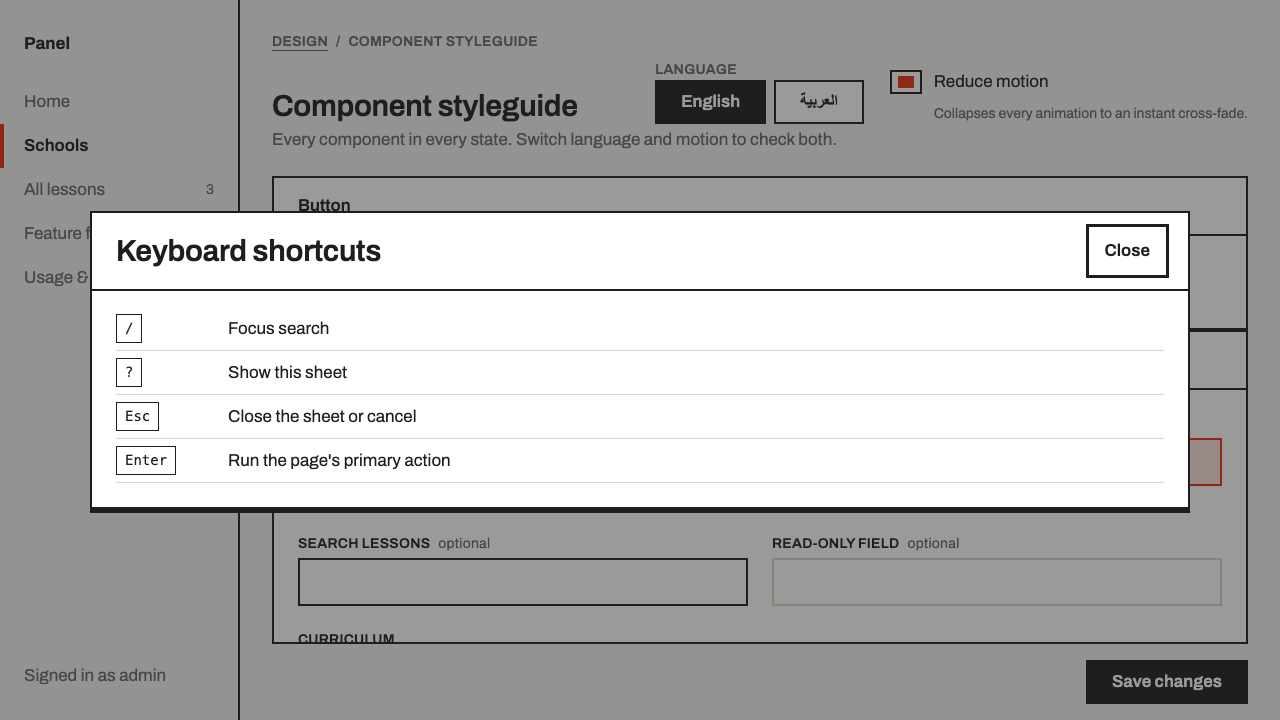
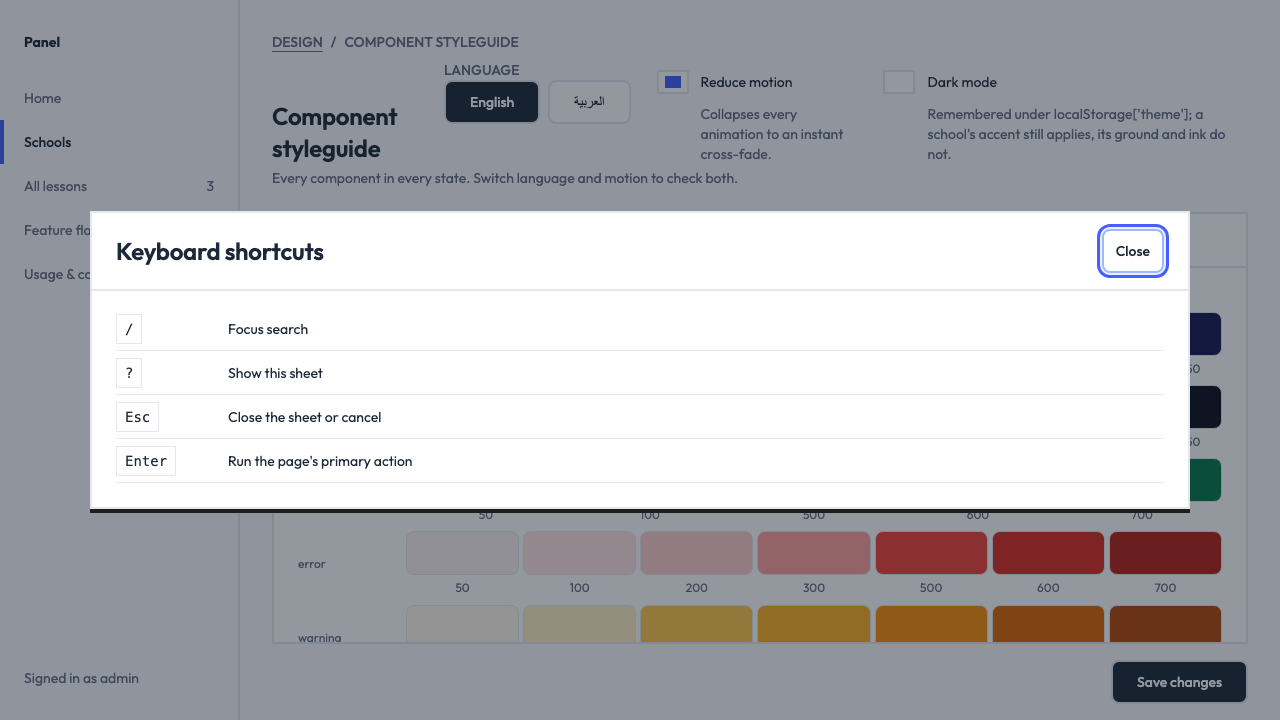
feat(dashboard): the styleguide shows the foundations layer (T1)
A Foundations card above the components: the five ramps as swatches named by
property rather than by value, the type ramp, the radii, the five elevations and
the focus treatment as a still — `:focus-visible` needs a keyboard and a real
focus, neither of which survives a page capture. The dark switch sits beside
Reduce motion in the page actions.

`e2e/styleguide.spec.ts` captures the four review frames — EN and AR against
light and dark — into `docs/screenshots/theme-t1/`, through `shoot()` so a frame
cannot be committed before the page has painted. The language and the scheme are
both written to storage in an init script, because both are read before the app
boots.

`tokens.spec.ts` now also runs `tools/tokens.mjs --check`: the output was
compared, the generator was not, and `design/tokens.json` is shared with the
mobile app.

The three `dashboard-p1.0` screenshots are regenerated — Outfit and the new
palette change every frame in the set.

diff --git a/dashboard/src/app/styleguide/styleguide.page.html b/dashboard/src/app/styleguide/styleguide.page.html
@@ -39,7 +39,69 @@
           [checked]="reduceMotion()"
           (checkedChange)="setReduceMotion($event)"
         />
+        <hq-toggle
+          [label]="'styleguide.foundations.darkMode' | transloco"
+          [hint]="'styleguide.foundations.darkModeHint' | transloco"
+          [checked]="darkMode.isDark()"
+          (checkedChange)="setDark($event)"
+        />
       </div>
+
+      <!-- Foundations: the layer everything else resolves through -->
+      <hq-card [title]="'styleguide.sections.foundations' | transloco">
+        <h3 class="hq-label">{{ 'styleguide.foundations.colour' | transloco }}</h3>
+        @for (ramp of ramps; track ramp.name) {
+          <div class="sg__ramp">
+            <span class="sg__ramp-name">{{ ramp.name }}</span>
+            <div class="sg__swatches">
+              @for (step of ramp.steps; track step) {
+                <span class="sg__swatch" [title]="'--hq-color-' + ramp.name + '-' + step">
+                  <span
+                    class="sg__chip"
+                    [style.background]="'var(--hq-color-' + ramp.name + '-' + step + ')'"
+                  ></span>
+                  {{ step }}
+                </span>
+              }
+            </div>
+          </div>
+        }
+
+        <h3 class="hq-label sg__heading">{{ 'styleguide.foundations.type' | transloco }}</h3>
+        @for (size of typeRamp; track size) {
+          <p class="sg__type" [style.font-size]="'var(--hq-text-' + size + ')'">
+            {{ size }} — {{ 'styleguide.foundations.typeSample' | transloco }}
+          </p>
+        }
+
+        <h3 class="hq-label sg__heading">{{ 'styleguide.foundations.radius' | transloco }}</h3>
+        <div class="sg__row">
+          @for (radius of radii; track radius) {
+            <span class="sg__shape" [style.border-radius]="'var(--hq-radius-' + radius + ')'">{{
+              radius
+            }}</span>
+          }
+        </div>
+
+        <h3 class="hq-label sg__heading">{{ 'styleguide.foundations.shadow' | transloco }}</h3>
+        <div class="sg__row">
+          @for (shadow of shadows; track shadow) {
+            <span
+              class="sg__shape sg__shape--raised"
+              [style.box-shadow]="'var(--hq-shadow-' + shadow + ')'"
+              >{{ shadow }}</span
+            >
+          }
+        </div>
+
+        <h3 class="hq-label sg__heading">{{ 'styleguide.foundations.focus' | transloco }}</h3>
+        <p class="sg__note">{{ 'styleguide.foundations.focusHint' | transloco }}</p>
+        <div class="sg__row">
+          <span class="sg__shape sg__shape--focused">{{
+            'styleguide.foundations.focusRing' | transloco
+          }}</span>
+        </div>
+      </hq-card>
 
       <!-- Button -->
       <hq-card [title]="'styleguide.sections.button' | transloco">

diff --git a/dashboard/src/app/styleguide/styleguide.page.ts b/dashboard/src/app/styleguide/styleguide.page.ts
@@ -3,6 +3,7 @@ import { ChangeDetectionStrategy, Component, computed, inject, signal, viewChild
 import { toSignal } from '@angular/core/rxjs-interop';
 import { TranslocoPipe, TranslocoService } from '@jsverse/transloco';
 import { LanguageService } from '../core/i18n/language.service';
+import { DarkModeService } from '../core/theme/dark-mode.service';
 import {
   BandComponent,
   ButtonComponent,
@@ -33,6 +34,12 @@ import {
   type Tab,
   type TableColumn,
 } from '../ui';
+
+/** One colour ramp, as the property suffixes it is published under. */
+interface Ramp {
+  readonly name: string;
+  readonly steps: readonly string[];
+}
 
 interface DemoLesson {
   readonly id: string;
@@ -99,7 +106,38 @@ export class StyleguidePage {
     return (key: string): string => (loaded ? this.transloco.translate(key) : '');
   });
 
+  protected readonly darkMode = inject(DarkModeService);
+
   protected readonly reduceMotion = signal(false);
+
+  // --- Foundations --------------------------------------------------------
+  // Read out of `_theme.scss` by property name rather than by value: a swatch that named its
+  // own hex would go on looking right after the ramp beneath it had changed.
+  protected readonly ramps: readonly Ramp[] = [
+    {
+      name: 'brand',
+      steps: ['25', '50', '100', '200', '300', '400', '500', '600', '700', '800', '900', '950'],
+    },
+    {
+      name: 'gray',
+      steps: ['25', '50', '100', '200', '300', '400', '500', '600', '700', '800', '900', '950'],
+    },
+    { name: 'success', steps: ['50', '100', '500', '600', '700'] },
+    { name: 'error', steps: ['50', '100', '200', '300', '500', '600', '700'] },
+    { name: 'warning', steps: ['50', '100', '300', '400', '500', '600', '700'] },
+  ];
+
+  protected readonly typeRamp: readonly string[] = [
+    'title-sm',
+    'theme-xl',
+    'page-title',
+    'card-title',
+    'theme-sm',
+    'theme-xs',
+  ];
+
+  protected readonly radii: readonly string[] = ['xs', 'control', 'tile', 'card', 'pill'];
+  protected readonly shadows: readonly string[] = ['xs', 'sm', 'md', 'lg', 'xl'];
 
   // --- Form state ---------------------------------------------------------
   protected readonly schoolName = signal('');
@@ -220,6 +258,10 @@ export class StyleguidePage {
       description: t(`styleguide.shortcuts.${key}`),
     }));
   });
+
+  protected setDark(value: boolean): void {
+    this.darkMode.set(value ? 'dark' : 'light');
+  }
 
   protected setReduceMotion(value: boolean): void {
     this.reduceMotion.set(value);

diff --git a/dashboard/e2e/styleguide.spec.ts b/dashboard/e2e/styleguide.spec.ts
@@ -1,6 +1,9 @@
 import { expect, test, type Page } from '@playwright/test';
+import { shoot } from './local/env';
 
 const SHOTS = '../docs/screenshots/dashboard-p1.0';
+/** The four frames the T1 PR is reviewed from: both languages against both schemes. */
+const THEME_SHOTS = '../docs/screenshots/theme-t1';
 
 /**
  * The screenshots attached to the P1.0 PR.
@@ -8,10 +11,21 @@ const SHOTS = '../docs/screenshots/dashboard-p1.0';
  * Motion is reduced before every capture so the images are deterministic: with animations
  * running, the step strip's arc and the count-up figure differ between runs.
  */
-async function openStyleguide(page: Page, language: 'en' | 'ar'): Promise<void> {
-  await page.addInitScript((lang) => {
-    window.localStorage.setItem('hq.language', lang);
-  }, language);
+async function openStyleguide(
+  page: Page,
+  language: 'en' | 'ar',
+  scheme: 'light' | 'dark' = 'light',
+): Promise<void> {
+  // Both are read before the app boots — the language by `provideLanguage`, the scheme by
+  // `applyStoredColorScheme` in `main.ts` — so they have to be in storage before the first
+  // navigation rather than clicked afterwards.
+  await page.addInitScript(
+    ({ lang, theme }) => {
+      window.localStorage.setItem('hq.language', lang);
+      window.localStorage.setItem('theme', theme);
+    },
+    { lang: language, theme: scheme },
+  );
   await page.goto('styleguide');
   await page.getByRole('heading', { level: 1 }).waitFor();
   await page.getByRole('switch').first().click();
@@ -38,6 +52,26 @@ test.describe('styleguide', () => {
 
     await page.screenshot({ path: `${SHOTS}/styleguide-ar.png`, fullPage: true });
   });
+
+  for (const language of ['en', 'ar'] as const) {
+    for (const scheme of ['light', 'dark'] as const) {
+      test(`foundations in ${language}, ${scheme}`, async ({ page }) => {
+        await openStyleguide(page, language, scheme);
+
+        const dark = await page.evaluate(() => document.documentElement.classList.contains('dark'));
+        expect(dark, `the ${scheme} scheme was not applied before the first paint`).toBe(scheme === 'dark');
+
+        await shoot(
+          page,
+          `${THEME_SHOTS}/styleguide-${language}-${scheme}.png`,
+          page.getByRole('heading', { level: 1 }),
+          {
+            fullPage: true,
+          },
+        );
+      });
+    }
+  }
 
   test('opens the shortcuts sheet with ?', async ({ page }) => {
     await openStyleguide(page, 'en');

diff --git a/dashboard/src/app/styleguide/styleguide.page.scss b/dashboard/src/app/styleguide/styleguide.page.scss
@@ -104,3 +104,85 @@
     border-block-start: var(--hq-size-rule-thin) solid var(--hq-color-rule);
   }
 }
+
+// --- Foundations -----------------------------------------------------------
+// Swatches, the type ramp, the radii and the elevations. Everything here reads a property by
+// name; nothing quotes a value, so the page cannot drift away from `_theme.scss`.
+
+.sg__heading {
+  margin-block-start: var(--hq-space-24);
+}
+
+.sg__ramp {
+  display: flex;
+  align-items: center;
+  gap: var(--hq-space-12);
+
+  & + & {
+    margin-block-start: var(--hq-space-8);
+  }
+}
+
+.sg__ramp-name {
+  inline-size: var(--hq-size-grade-card);
+  color: var(--hq-color-ink-soft);
+  font-size: var(--hq-text-theme-xs);
+}
+
+.sg__swatches {
+  display: flex;
+  flex: 1;
+  flex-wrap: wrap;
+  gap: var(--hq-space-4);
+}
+
+.sg__swatch {
+  display: flex;
+  flex: 1 1 var(--hq-size-spinner);
+  flex-direction: column;
+  align-items: stretch;
+  gap: var(--hq-space-4);
+  // Beside the chip rather than on it: no single ink colour stays legible across a whole ramp.
+  color: var(--hq-color-ink-soft);
+  font-size: var(--hq-text-theme-xs);
+  text-align: center;
+}
+
+.sg__chip {
+  block-size: var(--hq-size-button-height);
+  border: var(--hq-size-rule-thin) solid var(--hq-color-rule);
+  border-radius: var(--hq-radius-control);
+}
+
+.sg__type {
+  line-height: 1.3;
+}
+
+.sg__shape {
+  display: inline-flex;
+  align-items: center;
+  justify-content: center;
+  min-inline-size: var(--hq-size-course-card);
+  block-size: var(--hq-size-control-height);
+  padding-inline: var(--hq-space-16);
+  background: var(--hq-color-surface);
+  border: var(--hq-size-rule-thin) solid var(--hq-color-rule);
+  font-size: var(--hq-text-theme-xs);
+  color: var(--hq-color-ink-soft);
+}
+
+.sg__shape--raised {
+  border-color: transparent;
+  border-radius: var(--hq-radius-card);
+  box-shadow: var(--hq-shadow-xs);
+}
+
+// The focus treatment as a still, so a screenshot carries it: `:focus-visible` needs a real
+// focus and a keyboard, and neither survives a page capture.
+.sg__shape--focused {
+  border-radius: var(--hq-radius-control);
+  border-color: var(--hq-color-focus-border);
+  outline: var(--hq-size-focus-ring) solid var(--hq-color-focus);
+  outline-offset: var(--hq-size-focus-ring-offset);
+  box-shadow: var(--hq-focus-ring);
+}

diff --git a/dashboard/src/styles/tokens.spec.ts b/dashboard/src/styles/tokens.spec.ts
@@ -1,3 +1,4 @@
+import { execFileSync } from 'node:child_process';
 import { readFileSync } from 'node:fs';
 import { resolve } from 'node:path';
 import { describe, expect, it } from 'vitest';
@@ -8,6 +9,18 @@ import tokens from '../../../design/tokens.json';
 const generated = readFileSync(resolve(process.cwd(), 'src/styles/_tokens.generated.scss'), 'utf8');
 
 describe('design tokens', () => {
+  // The generator itself, not only its output: `design/tokens.json` is shared with the mobile
+  // app, and a token added there without a regeneration here is a property the dashboard reads
+  // and gets nothing for.
+  it('has no drift between design/tokens.json and the committed stylesheet', () => {
+    expect(() =>
+      execFileSync(process.execPath, ['tools/tokens.mjs', '--check'], {
+        cwd: process.cwd(),
+        encoding: 'utf8',
+      }),
+    ).not.toThrow();
+  });
+
   it('generates a custom property for every colour, keeping the same value', () => {
     for (const [name, token] of Object.entries(tokens.color)) {
       expect(generated).toContain(`--hq-color-${name}: ${token.value};`);
